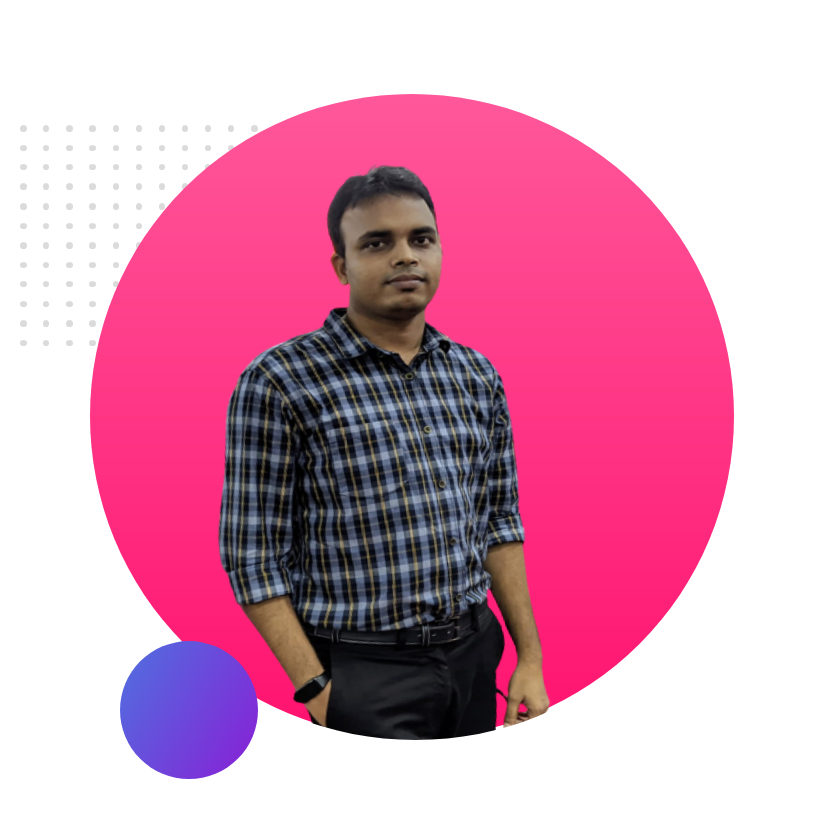
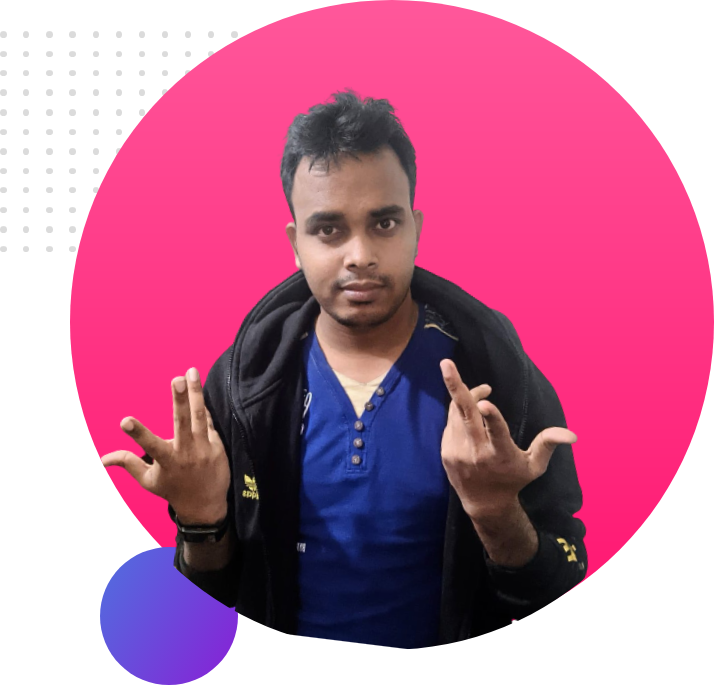
add expreexperiences-area section and called nth-of-type(1) and apply style

diff --git a/index.html b/index.html
@@ -12,17 +12,52 @@
     <link rel="stylesheet" href="css/style.css">
 </head>
 <body>
-    <!-- -----------------------------------------Header Section--------------------------------------------- -->
+    <!-- -----------------------------------------Header Section start---------------------------------------->
     <section class="header-area flex-box">
-        <div class="width-50">
-            <h1>Welcome To<br> Proweb<span class="ft-color"> Codding</span> World</h1>
+        <div class="width-50 text-area">
+            <h1>Welcome <span class="ft-color">To</span><br> Proweb<span class="ft-color"> Codding</span> World</h1>
             <h3>Web design , Development and more ....</h3>
-            <p>I am a web developer from Dhaka,Bangladesh. i always enjoy building and developing everything from small business sites to big interactive web apps. If you are a business seeking and E-commerce web site to looking gorgeous. you can gat in touch with me here.  </p>
+            <p>I'm 🙋♂ prokash pul.am a web developer from Dhaka,Bangladesh. i always enjoy building and developing everything from small business sites to big interactive web apps. If you are a business seeking and E-commerce web site to looking gorgeous. you can gat in touch with me here.  </p>
             <a class="btn" href="https://www.linkedin.com/in/prokash-pul-90a4ab1b5/" target="_blank" rel="noopener noreferrer">HIRE ME</a>
         </div>
         <div class="width-50">
             <img src="img/prokash.png" alt="prokash">
         </div>
     </section>
+    <!-- -----------------------------------------Header Section end---------------------------------------->
+    <!-- -----------------------------------------Dreams Section start---------------------------------------->
+    <section class="dream-area flex-box">
+        <div class="width-50">
+            <img src="img/prokash1.png" alt="prokash">
+        </div>
+        <div class="width-50 text-area">
+            <h2>Burning <span class="ft-color">Desire</span> </h2>
+            <h3>Become a full stack web developer.</h3>
+            <p>I already learned the basic HTML, CSS and JavaScript. I can build any simple website. I can even teach my friend how to make simple website.  </p>
+            <a class="btn" href="https://www.linkedin.com/in/prokash-pul-90a4ab1b5/" target="_blank" rel="noopener noreferrer">DOWNLOAD RESUME</a>
+        </div>
+    </section>
+    <!-- -----------------------------------------Dreams Section end---------------------------------------->
+     <!-- -----------------------------------------Experiences Section start---------------------------------------->
+
+
+     <!-- -----------------------------------------Experiences Section end---------------------------------------->
+     <section class="experiences-area">
+        <h2 class="ex-text">Experiences</h2>
+        <div class=" flex-box">
+            <div class="width-50 text-area">
+                <h2>Baby Web <span class="ft-color">Developer </span></h2>
+                <h3>Present | Studing Programming Hero course</h3>
+                <p>I already learned the basic HTML, CSS and JavaScript. I can build any simple website. I can even teach my friend how to make simple website.  </p>
+            </div>
+            <div class="width-50 text-area">
+                <h2>Full Stack Web<span class="ft-color"> Developer</span></h2>
+                <h3>Present | Pro Level Developer - 2022-23</h3>
+                <p>I can build any simple website.I loves coding and always strives to write elegant and efficient code, whether it is HTML, CSS or javaScript. I even know the deployment, server and security. I will give you 100% web solution.  </p>
+            </div>
+         </div>
+     </section>
+
+
 </body>
 </html>

diff --git a/css/style.css b/css/style.css
@@ -13,13 +13,15 @@ body{
 .flex-box{
     display:flex;
     justify-content: space-evenly;
-    padding: 10px;
+    padding:50px 10px ;
 }
-.header-area .width-50{
+.width-50{
  width:40%;
 }
 .flex-box img{
     width:100%;
+}
+.text-area{
     margin-top:30px;
 }
 h1{
@@ -27,11 +29,20 @@ h1{
     font-weight:700;
     line-height:50px;
 }
+h2{
+    font-size: 40px;
+    font-weight:700;
+}
 p{
     font-size:18px;
 }
 .ft-color{
     color:#fb6655;
+}
+.dream-area{
+    background-image: url(../img/dream-bg.png);
+    background-repeat: no-repeat;
+    background-position: right;
 }
 
 a.btn{
@@ -47,4 +58,20 @@ a.btn{
 a.btn:hover{
     background-image: linear-gradient(to right, rgb(251,102,85),rgb(219, 166, 50));
     box-shadow: rgba(100, 100, 111, 0.2) 0px 7px 29px 0px;
+}
+.experiences-area .width-50 {
+    box-shadow: rgba(100, 100, 111, 0.2) 0px 7px 29px 0px;
+    padding: 30px;
+    width: 45%;
+    border-left: 5px solid;
+    border-image: linear-gradient(rgb(0, 0, 255),rgb(236, 92, 76));
+    border-image-slice: 1;
+}
+.experiences-area .width-50:nth-of-type(1){
+    border-left: 5px solid;
+    border-image: linear-gradient(rgb(0, 255, 42),rgb(225, 0, 255));
+    border-image-slice: 1;
+}
+.ex-text{
+    text-align: center;
 }
